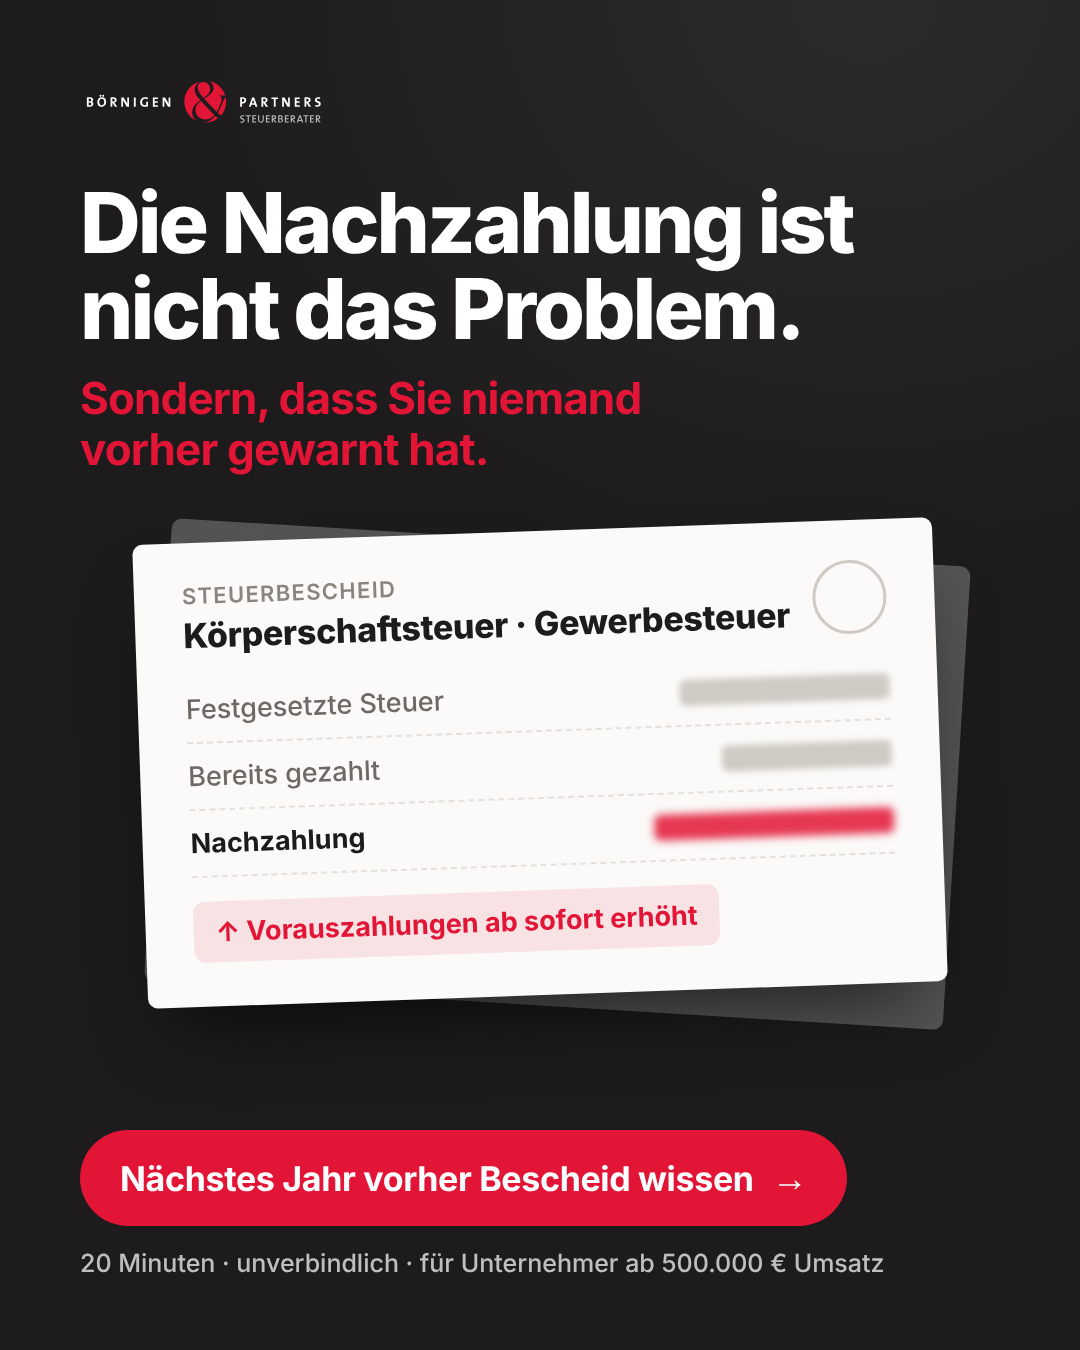
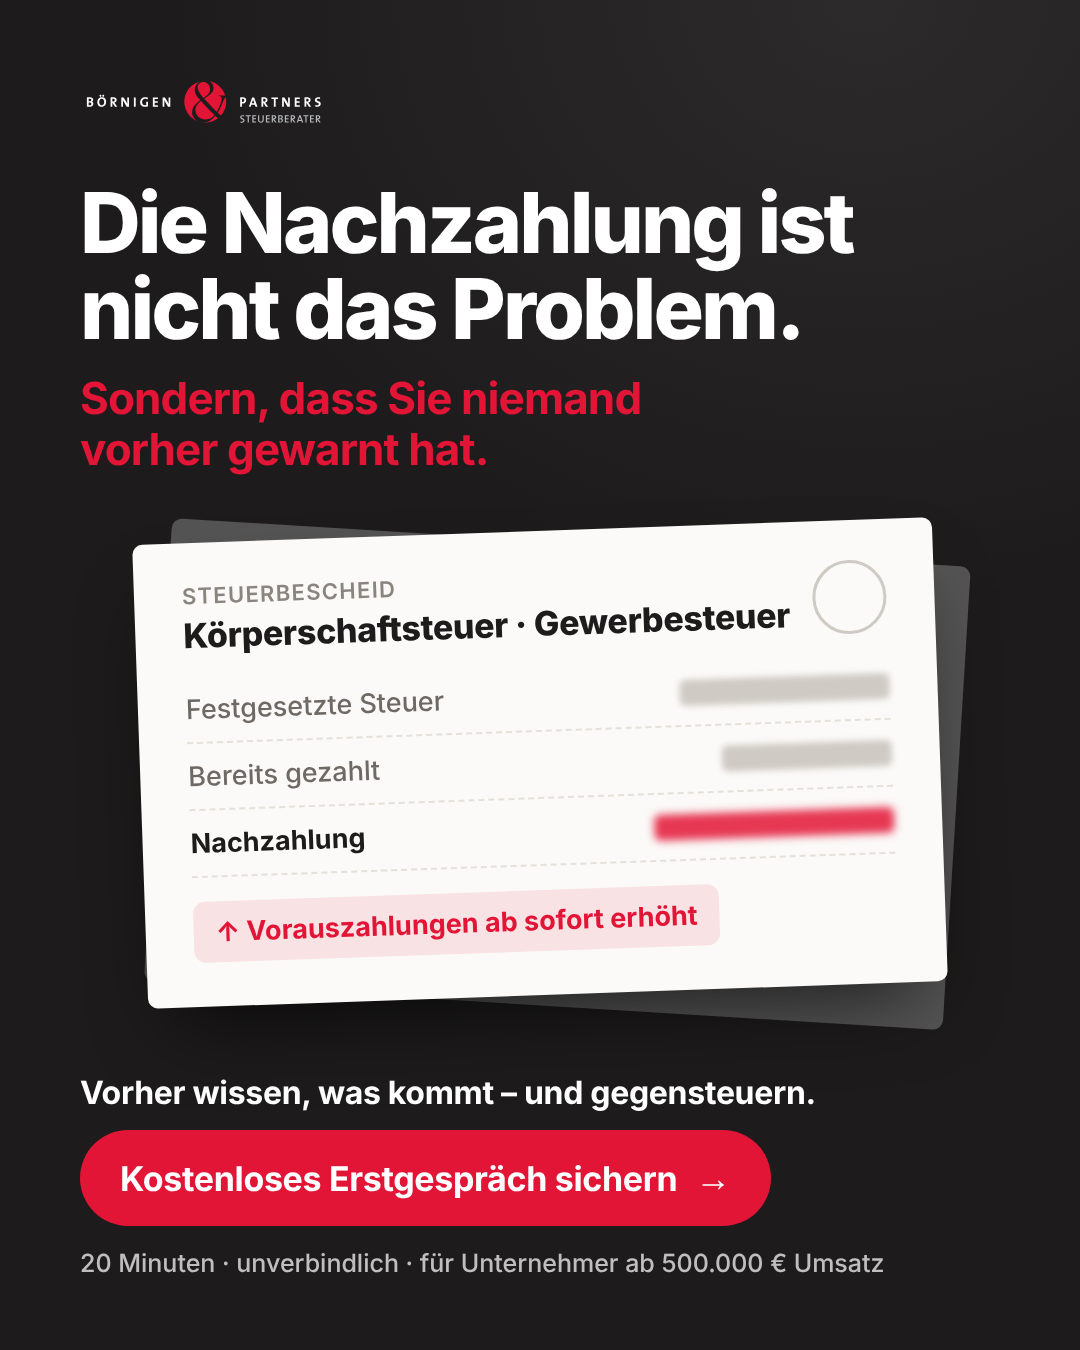
Creatives 1-4: Nutzen-Zeile vor dem CTA; Hook-Varianten zum Testen in meta-ads.md
Claude-Session: https://claude.ai/code/session_013Sw6D2jrT1B8PfEzLq9952

Changed region(s): [[0.0917, 0.7778, 0.7944, 0.9333]]

diff --git a/docs/meta-ads.md b/docs/meta-ads.md
@@ -25,6 +25,18 @@ Passend zur Landingpage https://boernigen-partner.kanzleianfrage.de. Jeder Angle
 - Nach 7–10 Tagen die Verlierer anhand der Kosten pro Lead **und** der Lead-Qualität im OS abschalten.
 - Vom Gewinner neue Hooks testen, also die erste Zeile und die Headline variieren.
 
+**Hook-Varianten zum Testen:** Direkte Hooks wie „Unzufrieden mit Ihrem Steuerberater?“ funktionieren aktuell sehr gut. Pro Anzeige gibt es deshalb eine alternative erste Zeile für einen A/B-Test (in Meta als zweite Primärtext-Variante anlegen). Regel für alle Creatives und Texte: In der ersten Sekunde muss klar sein, dass es um den Steuerberater geht, und vor dem CTA muss stehen, was der Mandant davon hat.
+
+| #   | Alternative erste Zeile                                                                                       |
+| --- | ------------------------------------------------------------------------------------------------------------- |
+| 1   | Unzufrieden mit Ihrem Steuerberater? Dann fragen Sie sich mal: Wann hat er Ihnen zuletzt etwas vorgeschlagen? |
+| 2   | Steuernachzahlung höher als gedacht? Das muss nächstes Jahr nicht wieder passieren.                           |
+| 3   | Ihr Steuerberater hat sich vor dem Jahresende noch nicht bei Ihnen gemeldet?                                  |
+| 4   | Ihre Lohnabrechnung läuft noch über Excel-Listen und E-Mails?                                                 |
+| 5   | Unzufrieden mit Ihrem Steuerberater, weil Sie ihm immer hinterherlaufen müssen?                               |
+| 6   | (ist bereits der direkte Hook)                                                                                |
+| 7   | Unzufrieden mit Ihrem Steuerberater, wenn es um Verkauf, Zukauf oder Nachfolge geht?                          |
+
 **So ist jede Anzeige aufgebaut:** Zuerst die Baulig-Struktur (Nummer und Schritte wie im PDF „20 Evergreen-Ads“), dann der Text Schritt für Schritt mit dem Namen des Baulig-Bausteins, danach der fertige Primärtext **zum Kopieren** in den Meta-Werbeanzeigenmanager.
 
 ---
